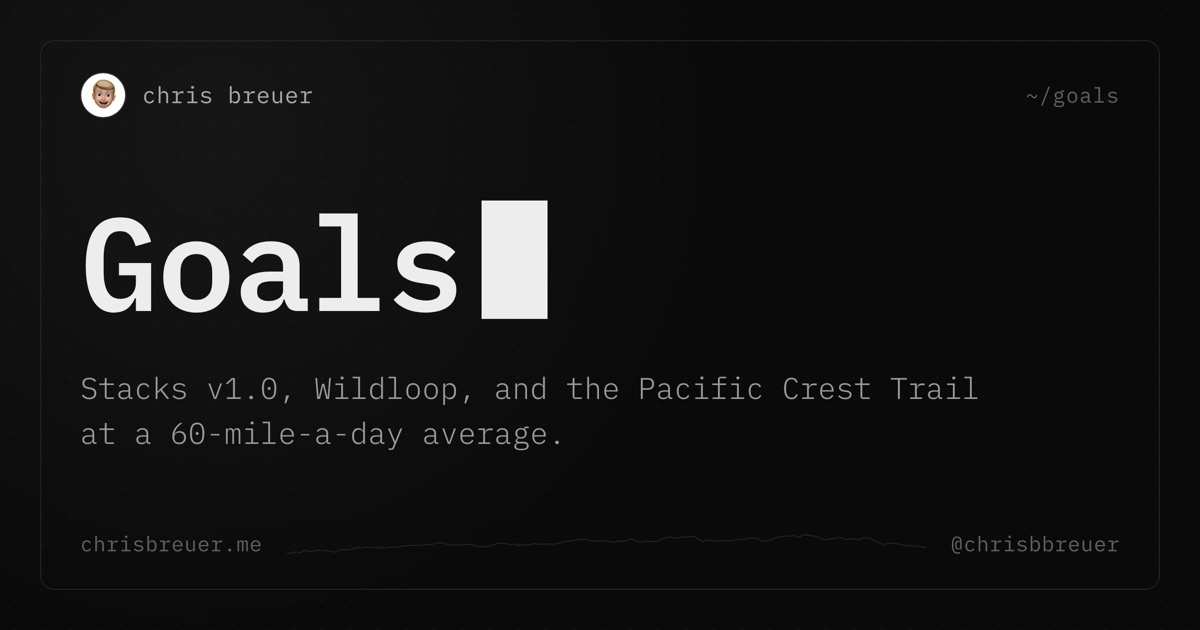
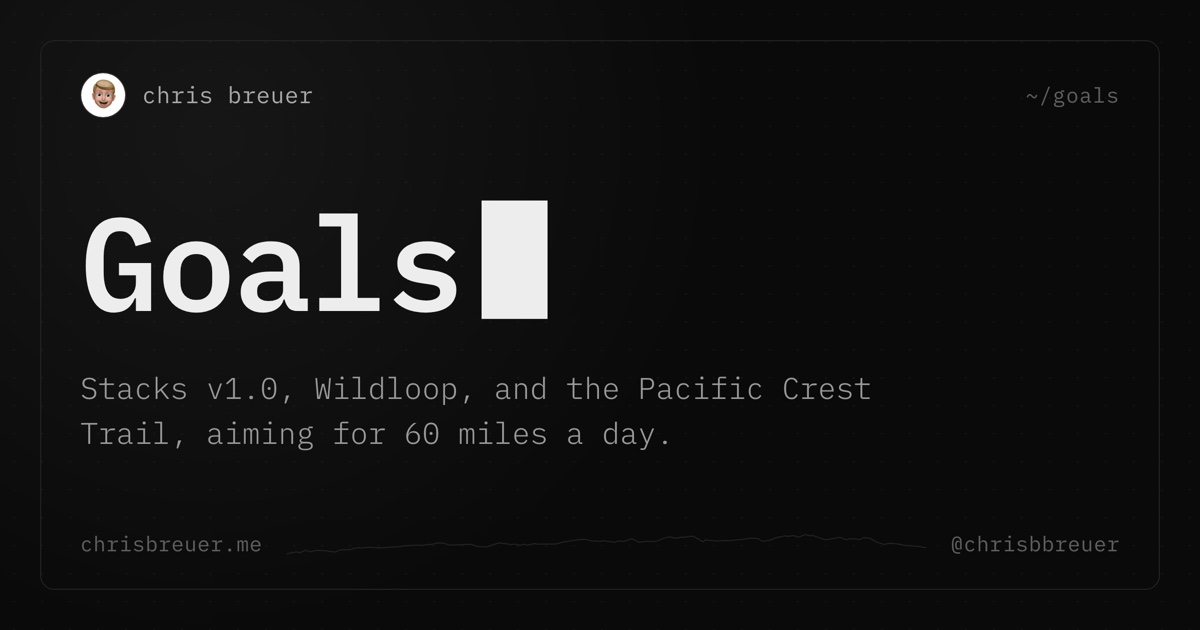
copy: share the PCT and racing plans without the bravado, everywhere
The blog post and goals page now say what the about page does: aiming
for 60 miles a day, not knowing yet if that pace holds, and racing to
see where I stand. The goals card is re-rendered to match.

Changed region(s): [[0.0617, 0.6635, 0.4625, 0.7238], [0.4933, 0.6635, 0.555, 0.7238], [0.74, 0.6032, 0.8017, 0.6333]]

diff --git a/scripts/build-og.ts b/scripts/build-og.ts
@@ -38,7 +38,7 @@ const cards: Card[] = [
     slug: 'goals',
     path: '~/goals',
     title: 'Goals',
-    desc: 'Stacks v1.0, Wildloop, and the Pacific Crest Trail at a 60-mile-a-day average.',
+    desc: 'Stacks v1.0, Wildloop, and the Pacific Crest Trail, aiming for 60 miles a day.',
   },
   {
     slug: 'projects',

diff --git a/content/blog/both-halves.md b/content/blog/both-halves.md
@@ -32,7 +32,7 @@ The only thing I loved more than computers as a kid was being outside. Almost tw
 
 These days it is skyrunning: long days in the mountains, on trails that go up considerably more than they go along, usually with my dog somewhere ahead of me. Weekends are California or Colorado. It is the one reliable thing that gets me away from a keyboard.
 
-The next big one is the Pacific Crest Trail, northbound, 2,650 miles, at a 60-mile-a-day average. Two years of building toward it at twenty to forty hours a week. After that I want to stop training for its own sake and race. Pin on a number, stand on a real start list, find out where I land.
+Next up is the Pacific Crest Trail, northbound: 2,650 miles, aiming to average 60 a day. I do not know yet if that pace holds, and finding out is half the reason to try. I have two years to build toward it, at twenty to forty hours of training a week. After that I want to start racing, pinning on a number at mountain races to see where I stand.
 
 That plan is [public](https://hq.training/share/chris), on the app I build for everyone else, pointed at my own weeks. It seemed dishonest to sell coaches software for tracking athletes and keep my own training in a spreadsheet.
 
